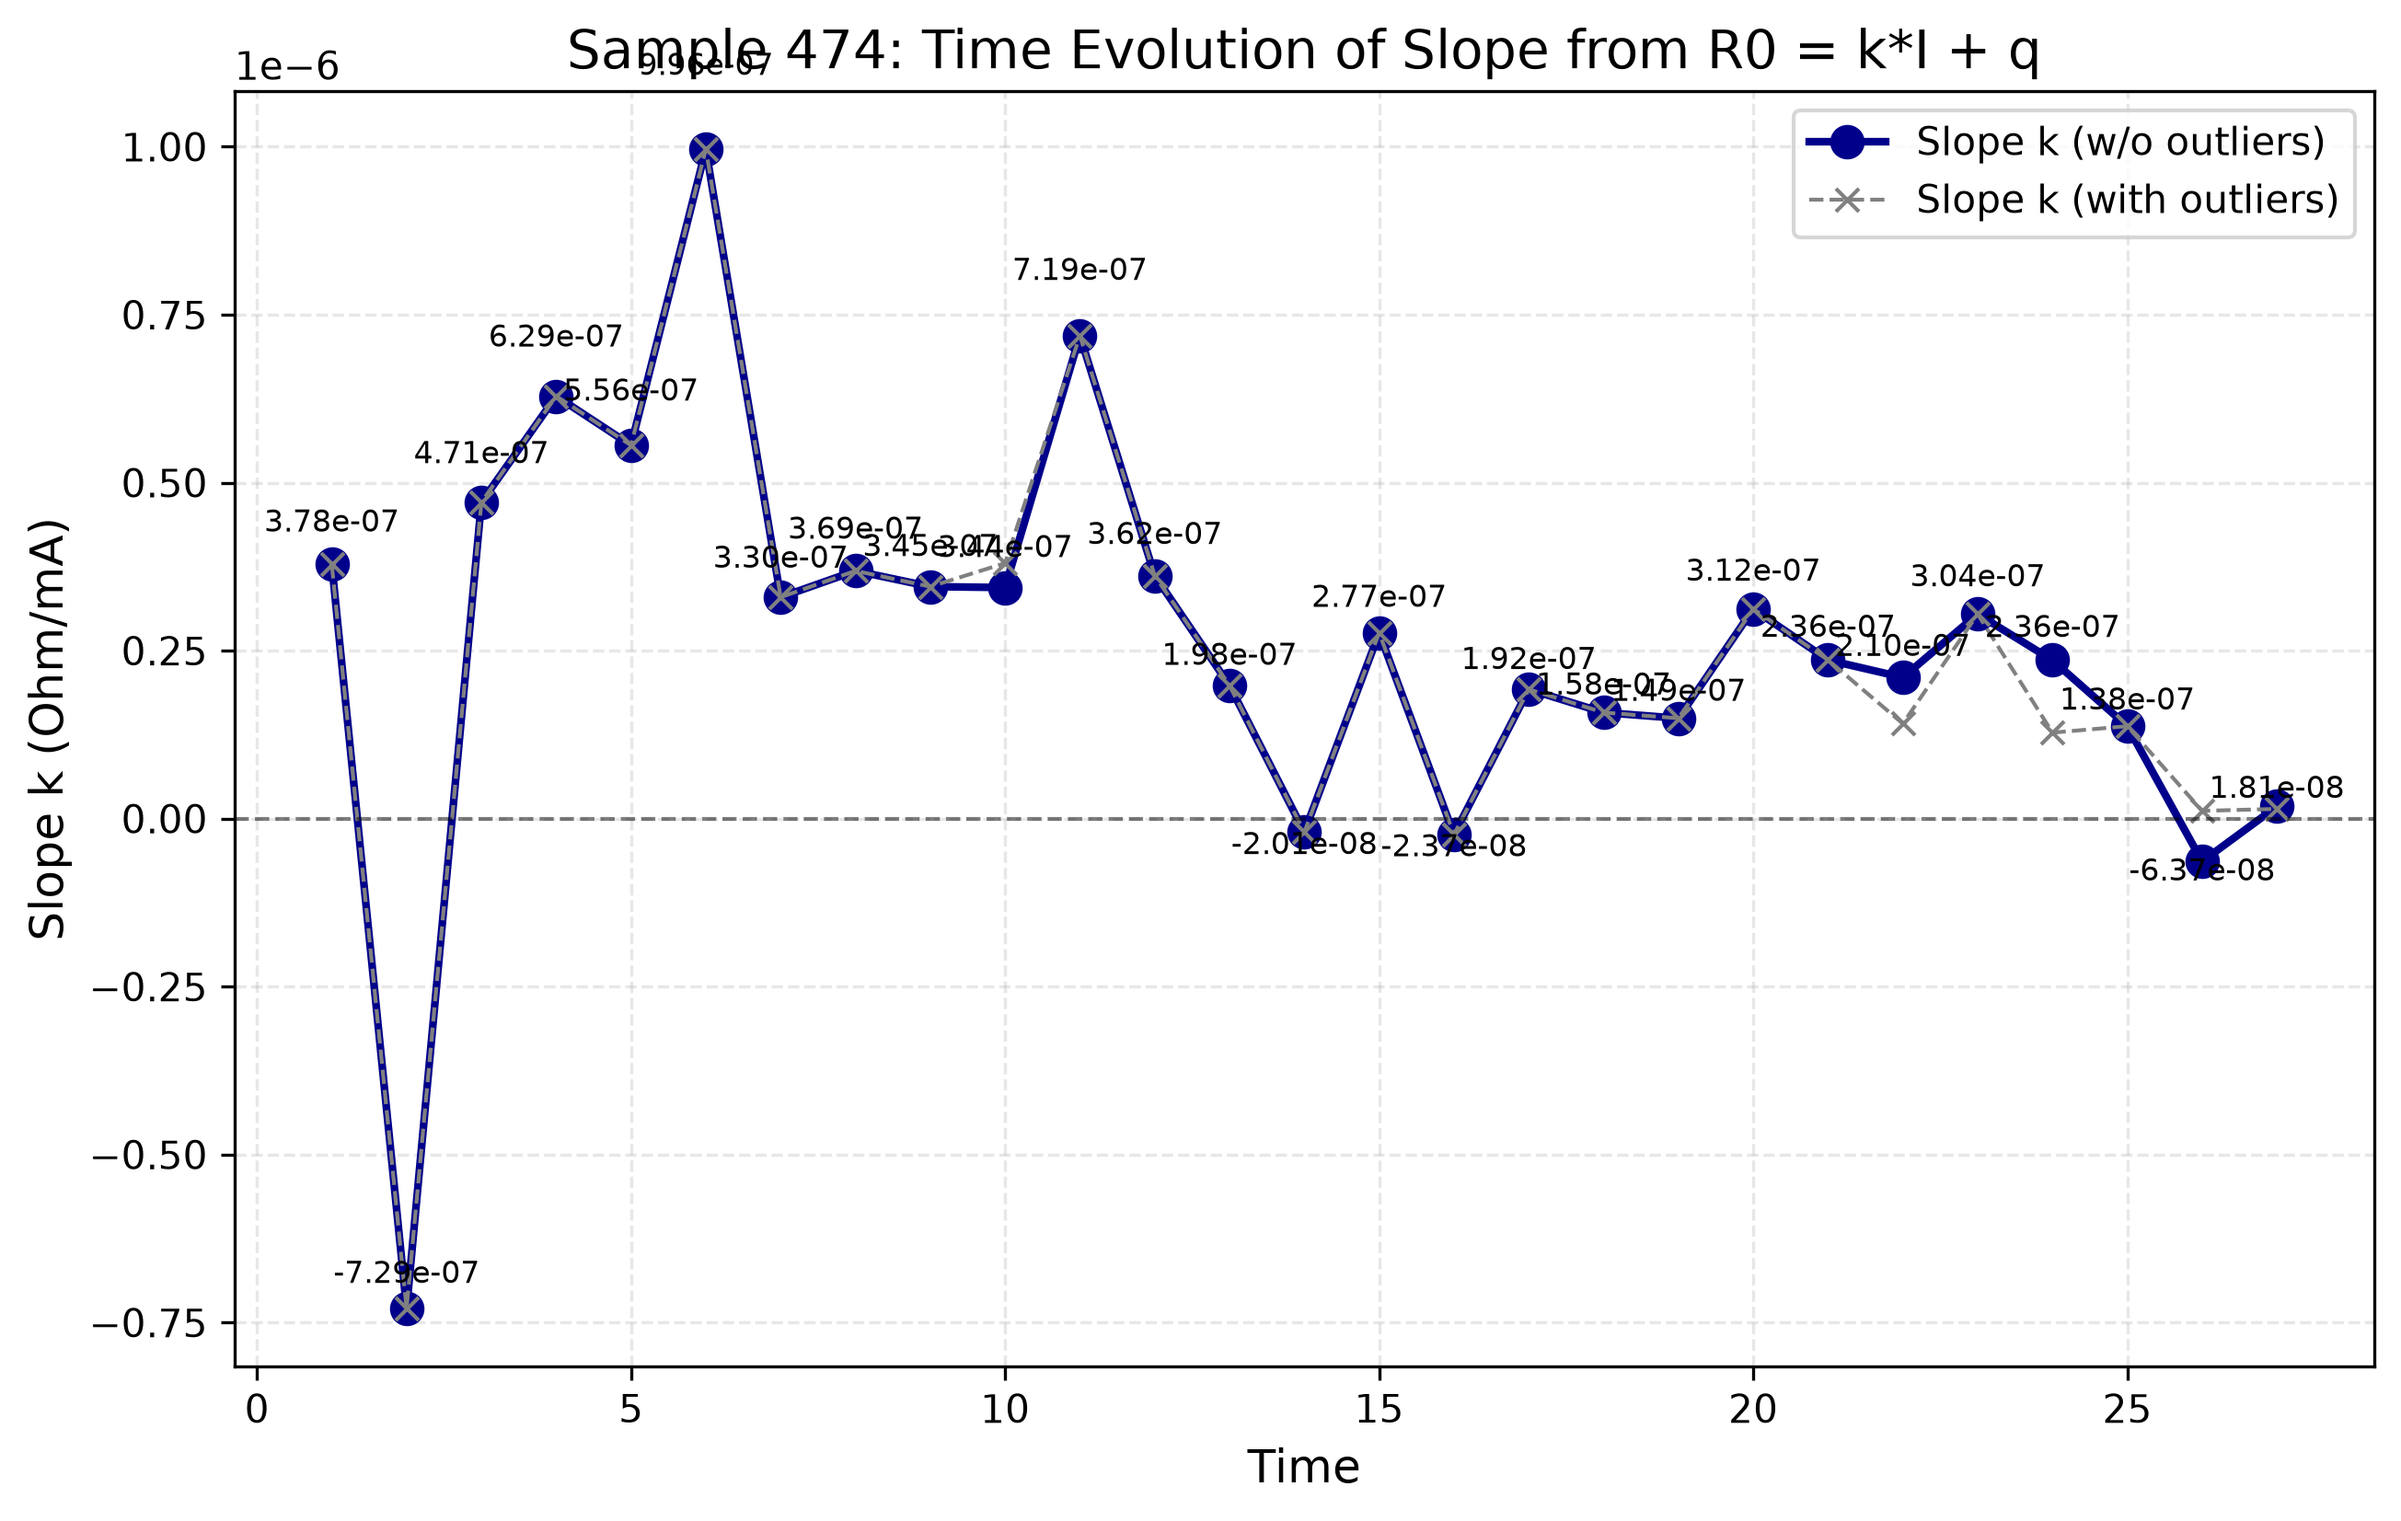
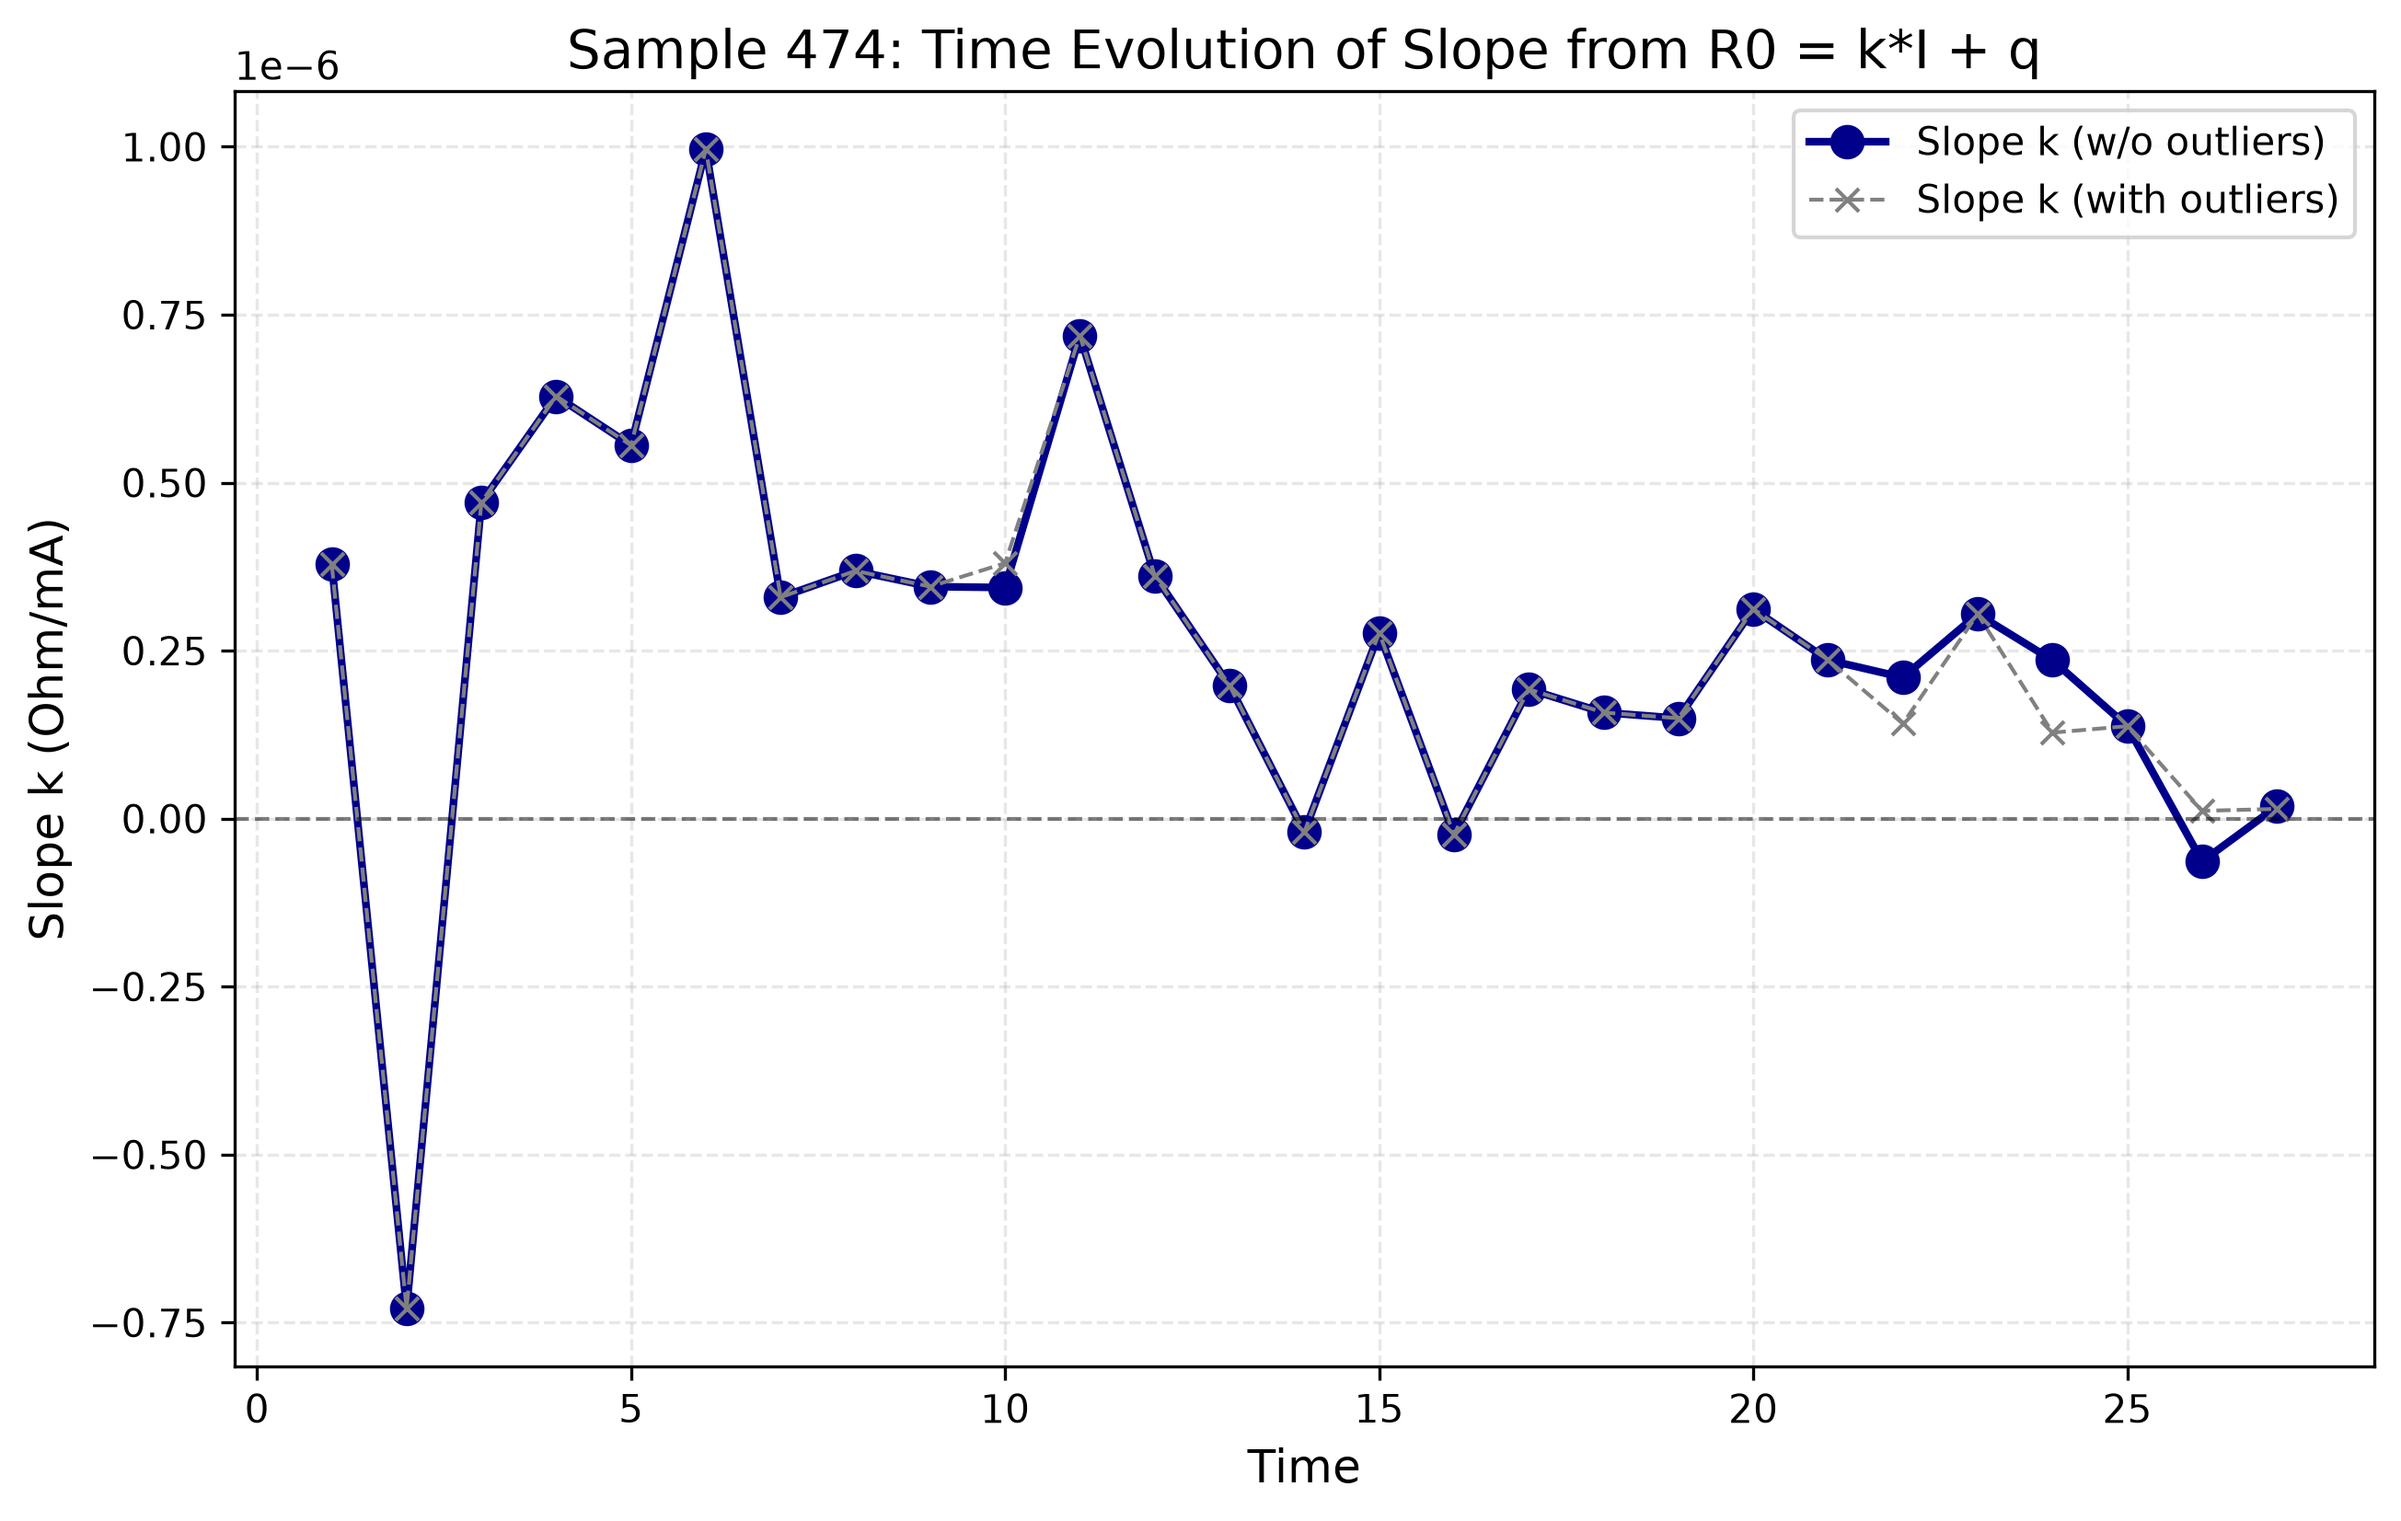
Update R0 plots: remove value annotations from time evolution graphs
- Removed q value annotations from intercept time evolution plot
- Removed k value annotations from slope time evolution plot
- All other analysis parameters unchanged
- Results identical to previous commit

Closes #remove-annotations

diff --git a/AEMs/r0_linear_fit_analysis.py b/AEMs/r0_linear_fit_analysis.py
@@ -320,12 +320,8 @@ def analyze_r0_linear_sample(csv_path, sample_id,
     # Add horizontal line at q=0
     ax.axhline(y=0, color='black', linestyle='--', linewidth=1, alpha=0.5)
     
-    # Annotate each point with its q value
-    for i, row in results_df.iterrows():
-        ax.annotate(f"{row['q']:.3f}",
-                    xy=(row['time'], row['q']),
-                    xytext=(row['time'], row['q'] + (0.005 if row['q'] >= 0 else -0.01)),
-                    ha='center', va='bottom' if row['q'] >= 0 else 'top', fontsize=9)
+    # Annotate each point with its time value (not q value)
+    # Removed value annotations as requested
     
     ax.set_xlabel('Time', fontsize=12)
     ax.set_ylabel('Intercept q (Ohm)', fontsize=12)
@@ -353,11 +349,7 @@ def analyze_r0_linear_sample(csv_path, sample_id,
     
     ax.axhline(y=0, color='black', linestyle='--', linewidth=1, alpha=0.5)
     
-    for i, row in results_df.iterrows():
-        ax.annotate(f"{row['k']:.2e}",
-                    xy=(row['time'], row['k']),
-                    xytext=(row['time'], row['k'] + (abs(row['k'])*0.1 if row['k'] != 0 else 0.0001)),
-                    ha='center', va='bottom' if row['k'] >= 0 else 'top', fontsize=8)
+    # Removed value annotations as requested
     
     ax.set_xlabel('Time', fontsize=12)
     ax.set_ylabel('Slope k (Ohm/mA)', fontsize=12)
